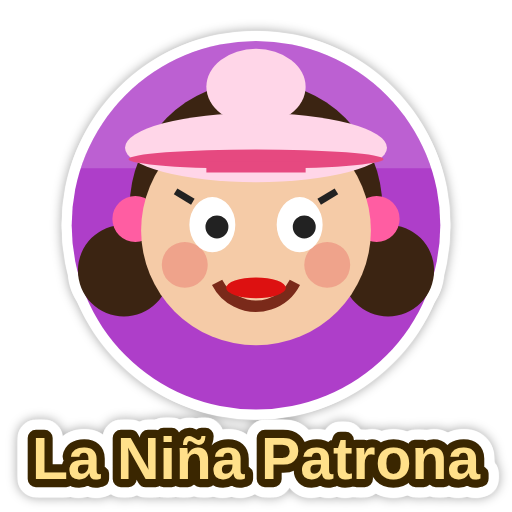
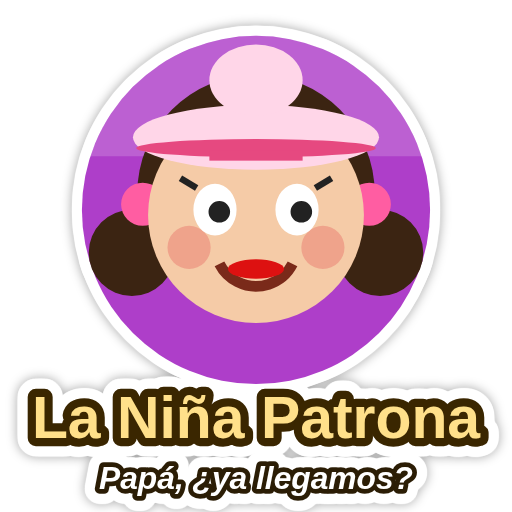
Kart: El Chino con rasgos asiáticos amables, frase bajo el nombre en tarjetas, kart y stickers

diff --git a/docs/kart/index.html b/docs/kart/index.html
@@ -38,6 +38,7 @@ button.sec{background:#1b1608;color:var(--gold);box-shadow:0 5px 0 #000,0 0 0 2p
 .ch{background:#15110a;border:3px solid #3a2f14;border-radius:16px;padding:6px 4px 8px;display:flex;flex-direction:column;align-items:center;gap:3px}
 .ch.sel{border-color:var(--gold);background:#2a210c;box-shadow:0 0 18px rgba(232,205,133,.55)}
 .ch canvas{width:min(20vw,92px);height:min(20vw,92px);image-rendering:auto}
+.qt{display:block;color:#ffd9a0;font:600 clamp(8px,1.9vw,10px)/1.1 system-ui;text-align:center;min-height:2.2em;padding:0 3px}
 .ch b{font-size:clamp(10px,2.6vw,14px);color:var(--gold);line-height:1.1}
 .bar{height:6px;width:80%;background:#000;border-radius:3px;overflow:hidden}.bar i{display:block;height:100%;background:linear-gradient(90deg,#e8cd85,#fff)}
 .bar.h i{background:linear-gradient(90deg,#4ad6ff,#fff)}
@@ -821,7 +822,8 @@ function drawSprites(){
     if(o.kart){const k=o.kart;y+=Math.sin(t*26+k.slot*2)*Math.min(1,k.spd/260)*0.8*Math.min(2.2,p.sc*.3);
       if(o.spin){ctx.save();ctx.translate(p.sx,y+h/2);ctx.rotate(o.spin);ctx.drawImage(o.img,-w/2,-h/2,w,h);ctx.restore()}
       else ctx.drawImage(o.img,x,y,w,h);
-      {const nm=k.name||(k.isPlayer?'':(k.ch&&k.ch.n)||'');if(nm&&state!=='menu'&&w>13&&!(P2&&k.human)){const fs=Math.max(8,Math.min(15,w*.1));ctx.font=`bold ${fs}px Arial`;ctx.textAlign='center';ctx.textBaseline='alphabetic';ctx.lineWidth=3;ctx.lineJoin='round';ctx.strokeStyle='rgba(0,0,0,.85)';const tg=(k.team>=0?(k.team?'🧱 ':'🏠 '):'')+nm,ty=y+h+fs*.75;ctx.strokeText(tg,p.sx,ty);ctx.fillStyle=k.team===0?'#74c0fc':k.team===1?'#ffa94d':'#fff';ctx.fillText(tg,p.sx,ty)}}
+      {const nm=k.name||(k.isPlayer?'':(k.ch&&k.ch.n)||'');if(nm&&state!=='menu'&&w>13&&!(P2&&k.human)){const fs=Math.max(8,Math.min(15,w*.1));ctx.font=`bold ${fs}px Arial`;ctx.textAlign='center';ctx.textBaseline='alphabetic';ctx.lineWidth=3;ctx.lineJoin='round';ctx.strokeStyle='rgba(0,0,0,.85)';const tg=(k.team>=0?(k.team?'🧱 ':'🏠 '):'')+nm,ty=y+h+fs*.75;ctx.strokeText(tg,p.sx,ty);ctx.fillStyle=k.team===0?'#74c0fc':k.team===1?'#ffa94d':'#fff';ctx.fillText(tg,p.sx,ty);
+        const q=(!k.remote&&k.ch&&k.ch.q)?k.ch.q.replace(/[«»]/g,''):'';if(q&&w>78){const f2=Math.max(7,fs*.78);ctx.font=`italic bold ${f2}px Arial`;ctx.lineWidth=2.5;ctx.strokeStyle='rgba(0,0,0,.8)';ctx.strokeText(q,p.sx,ty+f2*1.2);ctx.fillStyle='#ffd9a0';ctx.fillText(q,p.sx,ty+f2*1.2)}}}
       if(o.star){ctx.save();ctx.globalCompositeOperation='lighter';ctx.globalAlpha=.4+.3*Math.sin(t*30);ctx.drawImage(o.img,x,y,w,h);ctx.restore();GLOWS.push([p.sx,y+h*.5,w*.34,`hsl(${(t*400)%360},100%,60%)`,.3])}
       if(k.boost>0){const fw=w*0.2,fh=fw*1.4*(0.85+0.3*Math.sin(t*50));ctx.drawImage(SPR.flame,p.sx-w*0.28-fw/2,y+h*0.82,fw,fh);ctx.drawImage(SPR.flame,p.sx+w*0.28-fw/2,y+h*0.82,fw,fh);GLOWS.push([p.sx,y+h*.9,w*.5,'#ff9d2e',.5])}
       if(isNight()){GLOWS.push([p.sx-w*.26,y+h*.53,w*.022,'#ff2a2a',.7],[p.sx+w*.26,y+h*.53,w*.022,'#ff2a2a',.7])}
@@ -915,7 +917,7 @@ $('faceOk').onclick=()=>{const n=((prompt('¿Cómo se llama este piloto?','Pilot
   const img=new Image();img.onload=()=>{const i=nc;CHARS.push({id:'c'+i,n,col:FACE_COL[i%FACE_COL.length],col2:'#fff',spd:0.84,hand:0.86,face:img,custom:true,d});saveCustoms();picked=CHARS.length-1;buildSelect();showScreen('select')};img.src=d};
 function delCustom(i){if(!confirm('¿Borrar a '+CHARS[i].n+'?'))return;CHARS.splice(i,1);for(const k in KS)delete KS[k];saveCustoms();picked=0;buildSelect()}
 function buildSelect(){const wrap=$('chars');wrap.innerHTML='';CHARS.forEach((c,i)=>{const d=document.createElement('div');d.className='ch'+(i===picked?' sel':'');const cn=document.createElement('canvas');cn.width=cn.height=120;const g=cn.getContext('2d');g.fillStyle='#0b0905';g.fillRect(0,0,120,120);g.fillStyle=(i===picked&&PAINT.c)?PAINT.c:c.col;g.beginPath();g.arc(60,64,46,0,TAU);g.fill();g.fillStyle='rgba(255,255,255,.12)';g.beginPath();g.arc(60,64,46,Math.PI,0);g.fill();drawHead(g,c,60,62,58);
-  d.appendChild(cn);d.insertAdjacentHTML('beforeend',`<b>${esc(c.n)}</b><div class="bar"><i style="width:${c.spd*100}%"></i></div><div class="bar h"><i style="width:${c.hand*100}%"></i></div>`);
+  d.appendChild(cn);d.insertAdjacentHTML('beforeend',`<b>${esc(c.n)}</b><small class="qt">${esc((c.q||'').replace(/[«»]/g,''))}</small><div class="bar"><i style="width:${c.spd*100}%"></i></div><div class="bar h"><i style="width:${c.hand*100}%"></i></div>`);
   if(c.custom){const x=document.createElement('span');x.className='x';x.textContent='✖';x.onclick=e=>{e.stopPropagation();delCustom(i)};d.appendChild(x)}
   d.onclick=()=>{picked=i;audioUnlock();beep(660,.08);if(c.id==='chino'&&window.V4)V4.speak('rata',true);buildSelect()};wrap.appendChild(d)});
   $('chTag').textContent=(CHARS[picked].q||'«¡El nuevo inquilino del año!»');

diff --git a/docs/kart/chars.js b/docs/kart/chars.js
@@ -114,18 +114,18 @@ NEWCH.vida=(g,s)=>{const R=s*.34;
   g.strokeStyle='#6c757d';g.lineWidth=R*.05;g.stroke();
   g.fillStyle='#7a1f2a';g.beginPath();g.ellipse(-R*.1,R*.6,R*.2,R*.12,.2,0,T);g.fill();
   g.fillStyle='#adb5bd';g.fillRect(-R*.9,R*.28,R*.35,R*.13);g.fillStyle='#868e96';g.fillRect(-R*.9,R*.33,R*.35,R*.03)};
-/* 🐀 EL CHINO: pelo chino (rizado) y una rata que chilla en la cabeza: «¡Ya chilló la rata!» */
+/* 🐀 EL CHINO: cara de rasgos asiáticos (ojos almendrados), pelo negro lacio y una rata que chilla en la cabeza */
 NEWCH.chino=(g,s)=>{const R=s*.34;
-  g.fillStyle='#2a1a12';for(let i=0;i<15;i++){const a=Math.PI*(1.0+i/14*1.0);g.beginPath();g.arc(Math.cos(a)*R*1.02,-R*.12+Math.sin(a)*R*1.0,R*.27,0,T);g.fill()}
-  for(let i=0;i<6;i++){g.beginPath();g.arc(-R*.62+i*R*.25,-R*.86+Math.sin(i*1.7)*R*.06,R*.27,0,T);g.fill()}
-  g.beginPath();g.arc(-R*1.02,R*.12,R*.2,0,T);g.arc(R*1.02,R*.12,R*.2,0,T);g.fill();
-  face(g,R,'#e6b88e');
-  g.fillStyle='#2a1a12';for(let i=0;i<8;i++){g.beginPath();g.arc(-R*.82+i*R*.235,-R*.6+(i%2?R*.07:0),R*.2,0,T);g.fill()}
-  brow(g,-R*.62,-R*.3,-R*.18,-R*.4,R*.1);brow(g,R*.18,-R*.4,R*.62,-R*.3,R*.1);
-  eye(g,-R*.38,-R*.08,R*.2,R*.24,R*.03,R*.02,R*.12);eye(g,R*.38,-R*.08,R*.2,R*.24,-R*.03,R*.02,R*.12);
-  cheeks(g,R,'rgba(230,90,90,.4)');
-  g.fillStyle='#d49a70';g.beginPath();g.ellipse(0,R*.12,R*.09,R*.07,0,0,T);g.fill();
-  g.fillStyle='#7a1f2a';g.beginPath();g.moveTo(-R*.5,R*.36);g.quadraticCurveTo(0,R*.98,R*.5,R*.36);g.quadraticCurveTo(0,R*.5,-R*.5,R*.36);g.fill();g.fillStyle='#fff';g.beginPath();g.moveTo(-R*.44,R*.38);g.quadraticCurveTo(0,R*.55,R*.44,R*.38);g.quadraticCurveTo(0,R*.46,-R*.44,R*.38);g.fill();
+  face(g,R,'#ecc79b');
+  g.fillStyle='#16110f';g.beginPath();g.arc(0,-R*.12,R*1.07,Math.PI*0.97,Math.PI*2.03);g.lineTo(R*1.03,R*.18);g.lineTo(R*.9,-R*.02);g.quadraticCurveTo(R*.5,-R*.38,0,-R*.36);g.quadraticCurveTo(-R*.5,-R*.38,-R*.9,-R*.02);g.lineTo(-R*1.03,R*.18);g.closePath();g.fill();
+  g.fillRect(-R*.96,-R*.66,R*1.92,R*.3);g.fillStyle='rgba(255,255,255,.18)';g.beginPath();g.ellipse(-R*.35,-R*.78,R*.35,R*.07,-.2,0,T);g.fill();
+  brow(g,-R*.72,-R*.34,-R*.2,-R*.3,R*.09,'#16110f');brow(g,R*.2,-R*.3,R*.72,-R*.34,R*.09,'#16110f');
+  for(const sx of[-1,1]){const ix=sx*R*.14,ox=sx*R*.66;g.fillStyle='#fff';g.beginPath();g.moveTo(ix,R*.04);g.quadraticCurveTo(sx*R*.4,-R*.2,ox,-R*.12);g.quadraticCurveTo(sx*R*.42,R*.1,ix,R*.04);g.fill();
+    g.fillStyle='#2a1a10';g.beginPath();g.arc(sx*R*.4,-R*.03,R*.1,0,T);g.fill();g.fillStyle='#fff';g.beginPath();g.arc(sx*R*.37,-R*.07,R*.035,0,T);g.fill();
+    g.strokeStyle='#16110f';g.lineWidth=R*.06;g.lineCap='round';g.beginPath();g.moveTo(ix,R*.04);g.quadraticCurveTo(sx*R*.4,-R*.2,ox,-R*.12);g.stroke()}
+  cheeks(g,R,'rgba(230,100,100,.38)');
+  g.fillStyle='#d49a70';g.beginPath();g.ellipse(0,R*.14,R*.08,R*.06,0,0,T);g.fill();
+  g.fillStyle='#7a1f2a';g.beginPath();g.moveTo(-R*.5,R*.38);g.quadraticCurveTo(0,R*.98,R*.5,R*.38);g.quadraticCurveTo(0,R*.52,-R*.5,R*.38);g.fill();g.fillStyle='#fff';g.beginPath();g.moveTo(-R*.44,R*.4);g.quadraticCurveTo(0,R*.57,R*.44,R*.4);g.quadraticCurveTo(0,R*.48,-R*.44,R*.4);g.fill();
   // la rata
   g.save();g.translate(R*.0,-R*1.12);
   g.strokeStyle='#f0a5b8';g.lineWidth=R*.08;g.lineCap='round';g.beginPath();g.moveTo(R*.5,R*.12);g.quadraticCurveTo(R*1.1,R*.1,R*1.0,-R*.25);g.quadraticCurveTo(R*.95,-R*.45,R*1.2,-R*.4);g.stroke();
